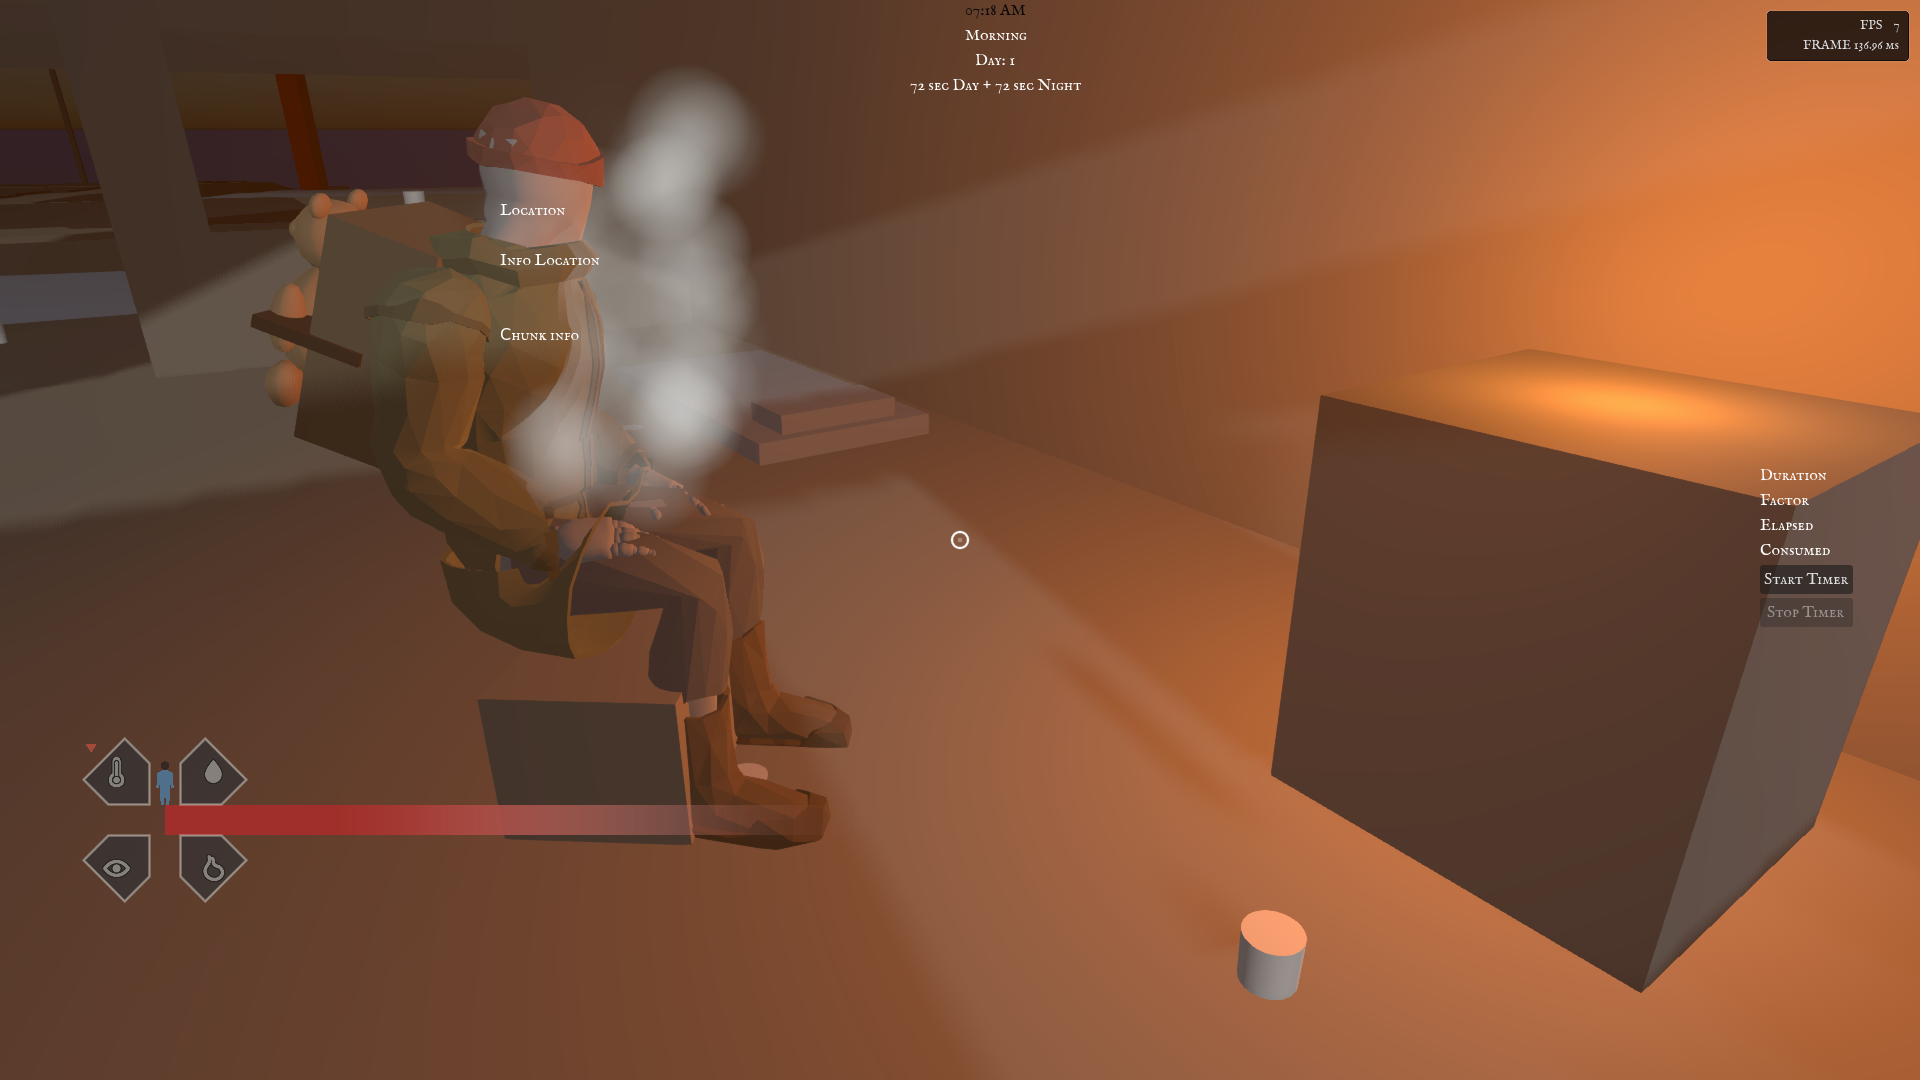
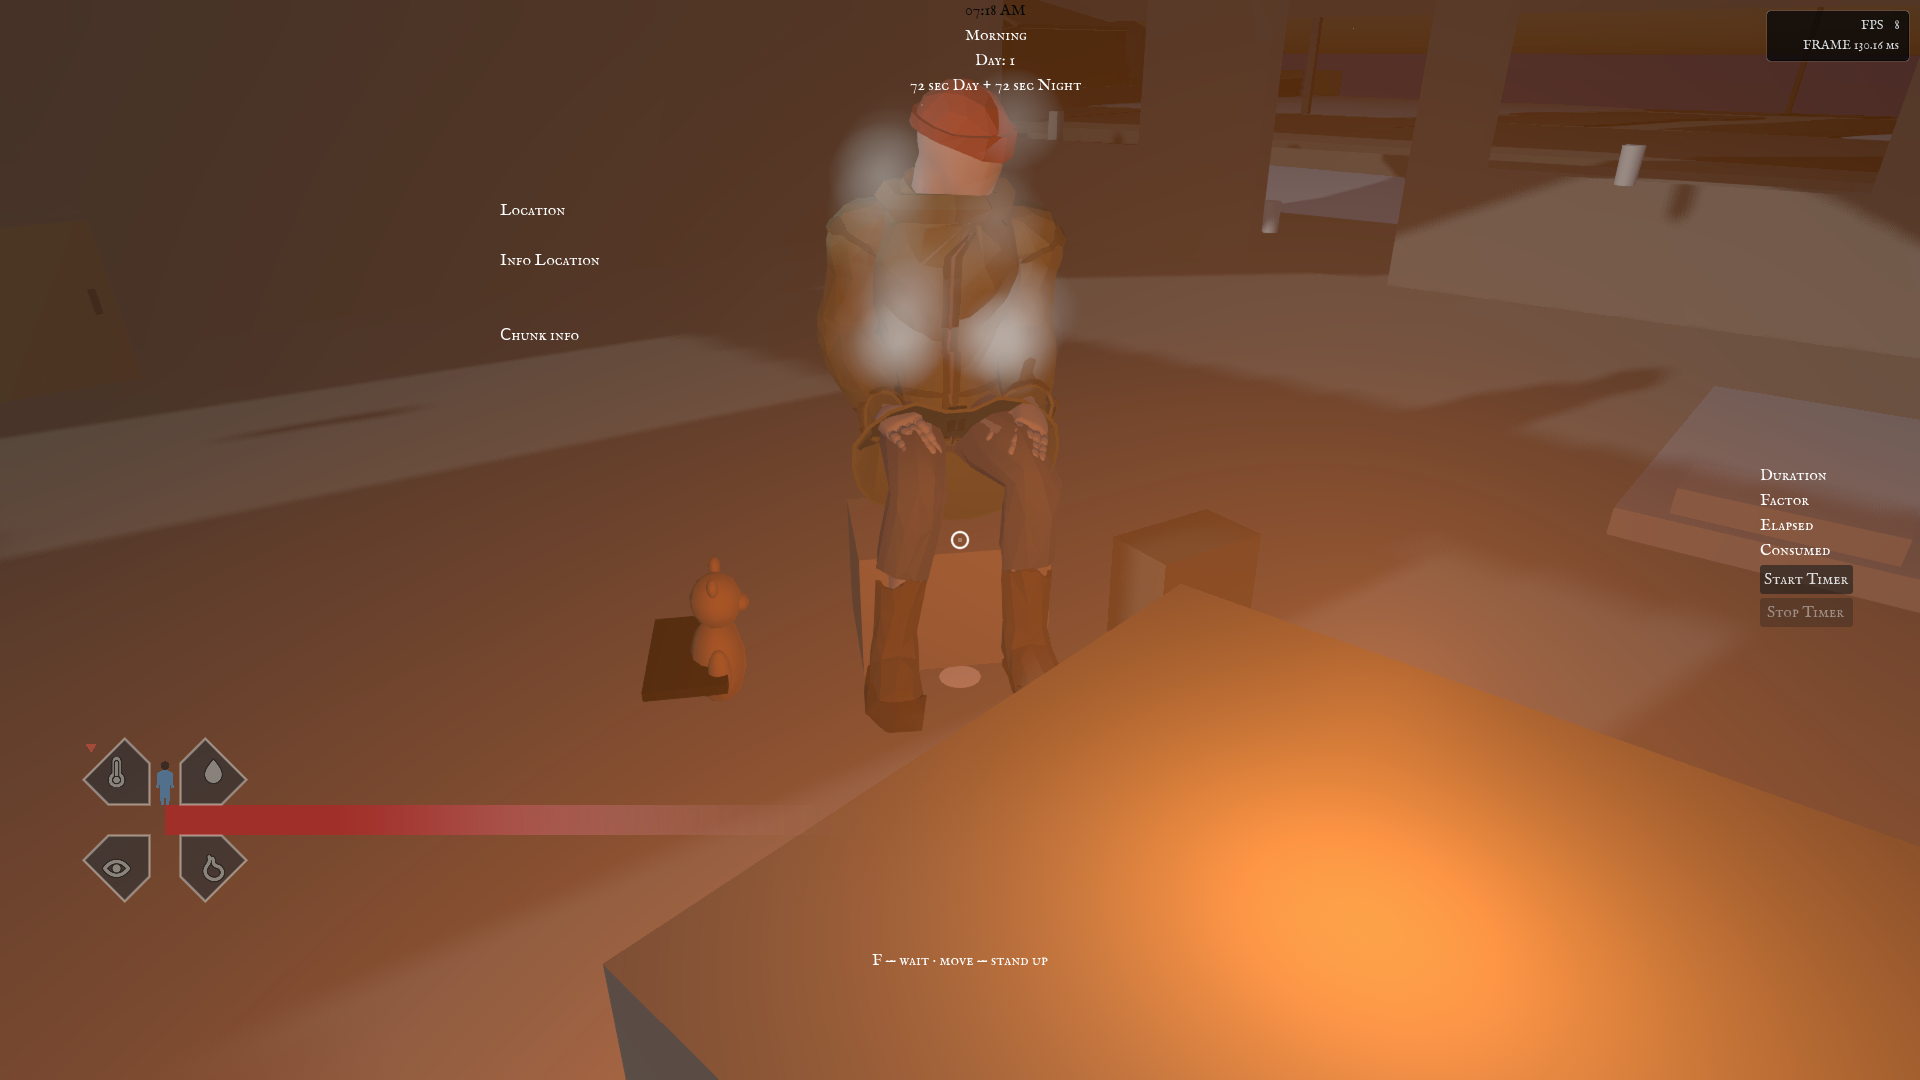
Wait seated by the stove; pack and Kenny set down beside Henry (#42)
Claude-Session: https://claude.ai/code/session_01XxM1WLbqzARi7YQV44quPG

diff --git a/CHANGELOG.md b/CHANGELOG.md
@@ -5,6 +5,22 @@ Maintained per branch; entries are added by whoever makes the change.
 
 ## [Unreleased] — `codex`
 
+### 2026-09-25 — Waiting seated; pack and Kenny set down by the stove (#42) (claudeflow)
+
+Added
+- Seated, `F` opens the sleep dialog in wait mode ("WAIT BY THE FIRE"): the same
+  hour picker, no sleep, no save. `SleepController.try_wait()` advances the world
+  and stops early once Henry is dry and warm or no fire warms him;
+  `BioMonitorManager.pass_awake_hours()` bills the waited hours.
+- On sitting Henry takes the pack off and stands it on his left; Kenny is set on
+  his right, facing the pack. Both go back on when he stands
+  (`HenryUALAnimation.set_pack_down()` / `pick_pack_up()`).
+- A seated hint: "F — wait · move — stand up".
+
+Changed
+- Seated, `F` waits instead of standing up; Esc or any move input stands.
+- Drying steam is thinner.
+
 ### 2026-09-25 — Recovery by the stove: sitting, trend marks, drying steam (#42) (claudeflow)
 
 Added
